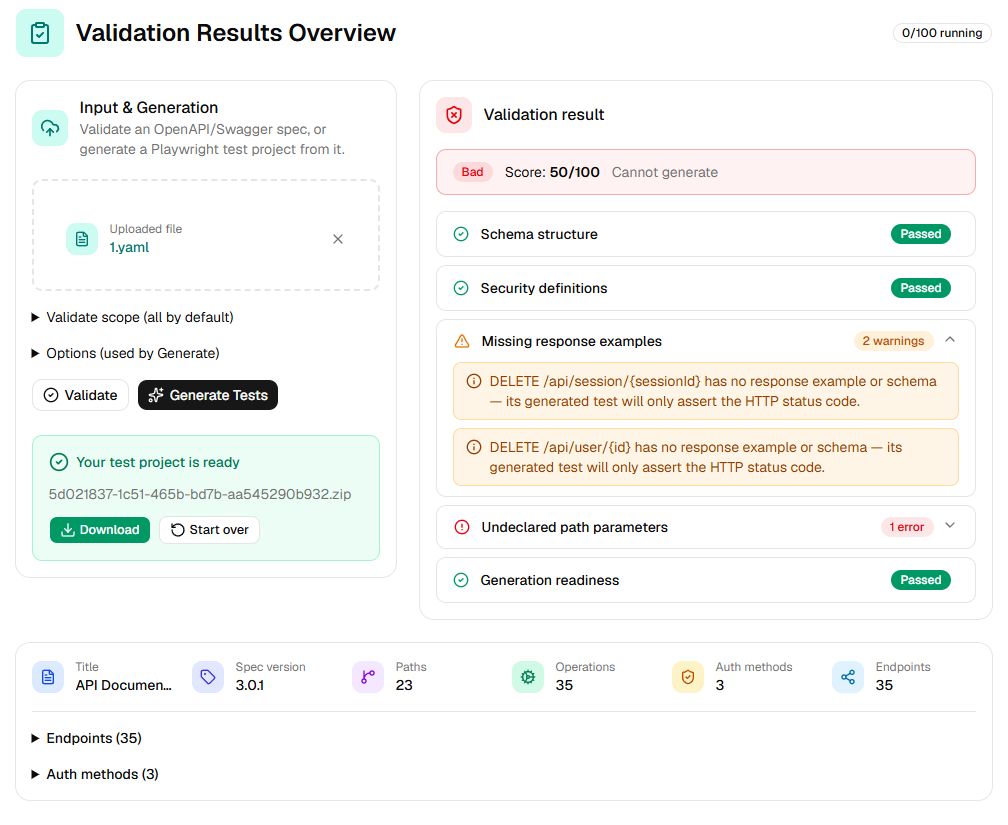
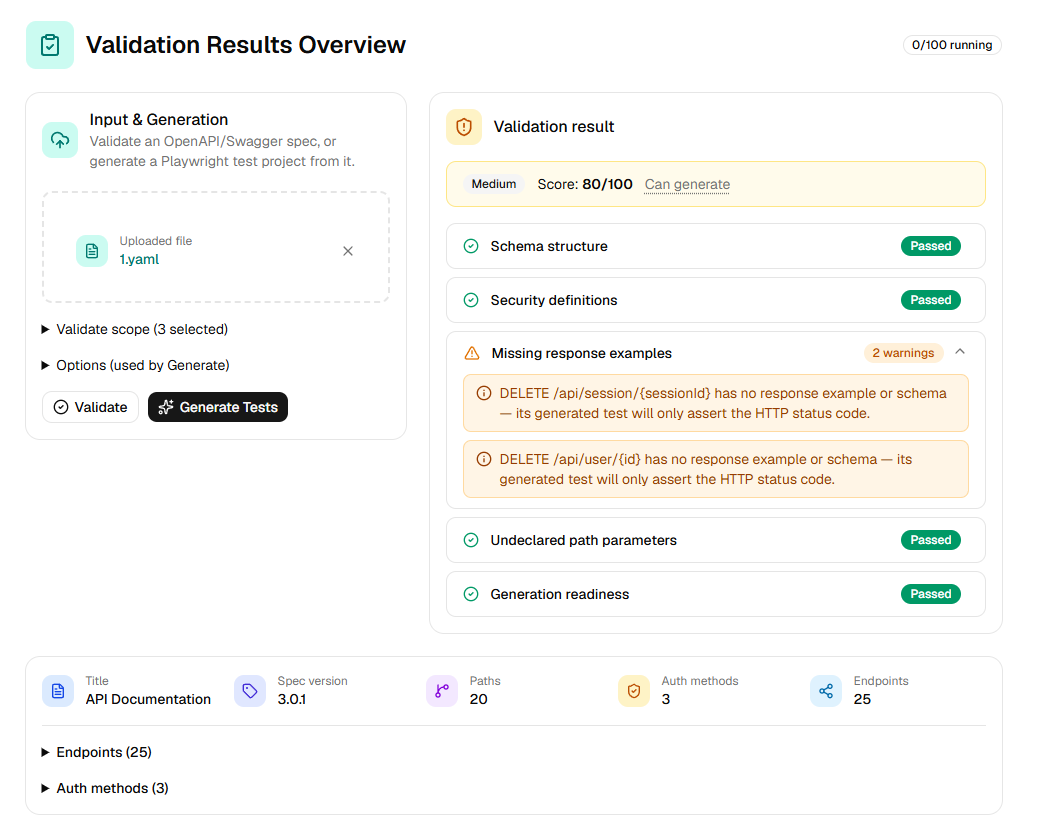
Replace long polling with SSE

diff --git a/src/hooks/useGenerateJob.ts b/src/hooks/useGenerateJob.ts
@@ -1,42 +1,96 @@
-import { useEffect } from 'react'
-import { useMutation, useQuery, useQueryClient } from '@tanstack/react-query'
-import { getGenerateJob, startGenerate, type GenerateOptions } from '@/lib/api'
+import { useEffect, useState } from 'react'
+import { useMutation } from '@tanstack/react-query'
+import { API_BASE_URL, getGenerateJob, startGenerate, type GenerateOptions } from '@/lib/api'
+import type { GenerateJobStatus } from '@/lib/types'
 import { useJobId } from './useJobId'
+import { useTitleAlert } from './useTitleAlert'
 
-const POLL_INTERVAL_MS = 1500
+// What the server actually pushes over SSE — no blob (see jobStore.js's
+// toPublicJob); once this reports "done" we make one normal GET to fetch
+// the file itself, same as the old polling path did on its last poll.
+type JobEvent = { status: 'pending' } | { status: 'done'; filename: string } | { status: 'failed'; error: string } | { status: 'not-found' }
 
 /**
  * Owns the full lifecycle of a generate job: kicking one off, persisting its
- * id (via useJobId) so a reload resumes polling it, and polling status while
- * pending. A stale/expired job (404 from the API) clears itself automatically.
+ * id (via useJobId) so a reload resumes watching it, and tracking status via
+ * Server-Sent Events (GET /generate/http/:jobId/events) rather than polling
+ * — the connection just sits open until the backend pushes a change. A
+ * stale/expired job (the server reports "not-found") clears itself
+ * automatically.
  */
 export function useGenerateJob() {
   const { jobId, setJobId } = useJobId()
-  const queryClient = useQueryClient()
+  const [status, setStatus] = useState<GenerateJobStatus | undefined>(undefined)
+  const [isLoadingStatus, setIsLoadingStatus] = useState(false)
 
-  const statusQuery = useQuery({
-    queryKey: ['generate-job', jobId],
-    queryFn: () => getGenerateJob(jobId as string),
-    enabled: jobId !== null,
-    refetchInterval: (query) => (query.state.data?.status === 'pending' ? POLL_INTERVAL_MS : false),
-  })
+  useEffect(() => {
+    setStatus(undefined)
+    if (jobId === null) return
+
+    setIsLoadingStatus(true)
+    let cancelled = false
+    const source = new EventSource(`${API_BASE_URL}/generate/http/${encodeURIComponent(jobId)}/events`)
+
+    source.onmessage = (event) => {
+      const payload = JSON.parse(event.data) as JobEvent
+      setIsLoadingStatus(false)
+
+      if (payload.status === 'pending') {
+        setStatus({ status: 'pending' })
+        return
+      }
+
+      // Terminal states: the server closes its end right after sending
+      // this, but close our side too so the browser never tries to
+      // auto-reconnect a stream that's intentionally finished.
+      source.close()
+
+      if (payload.status === 'done') {
+        // SSE only signalled completion — fetch the actual zip the normal way.
+        getGenerateJob(jobId)
+          .then((full) => {
+            if (!cancelled) setStatus(full)
+          })
+          .catch(() => {
+            if (!cancelled) setStatus({ status: 'failed', error: 'Generated, but the file could not be downloaded. Try again.' })
+          })
+      } else {
+        setStatus(payload)
+      }
+    }
+
+    return () => {
+      cancelled = true
+      source.close()
+    }
+  }, [jobId])
 
   // The job id is only ever a *hint* to reattach to — if the server no
   // longer knows about it (expired, or never existed), stop tracking it.
   useEffect(() => {
-    if (statusQuery.data?.status === 'not-found') setJobId(null)
-  }, [statusQuery.data, setJobId])
+    if (status?.status === 'not-found') setJobId(null)
+  }, [status, setJobId])
+
+  useTitleAlert(
+    status?.status === 'done'
+      ? '✅ Test project ready — PlaySpec'
+      : status?.status === 'failed'
+        ? '⚠ Generation failed — PlaySpec'
+        : null,
+  )
 
   const startMutation = useMutation({
     mutationFn: ({ file, options }: { file: File; options?: GenerateOptions }) =>
       startGenerate(file, options),
     onSuccess: (result) => {
       setJobId(result.jobId)
-      queryClient.invalidateQueries({ queryKey: ['generate-job', result.jobId] })
     },
   })
 
-  const reset = () => setJobId(null)
+  const reset = () => {
+    setJobId(null)
+    setStatus(undefined)
+  }
 
   // True only while a job is genuinely in flight server-side — the POST
   // itself, or a job whose status hasn't resolved yet or is still
@@ -44,12 +98,12 @@ export function useGenerateJob() {
   // done/failed/not-found, there's no reason to keep blocking a new
   // Generate click waiting on an explicit "Start over".
   const isPending =
-    startMutation.isPending || (jobId !== null && (statusQuery.isLoading || statusQuery.data?.status === 'pending'))
+    startMutation.isPending || (jobId !== null && (isLoadingStatus || status?.status === 'pending' || status === undefined))
 
   return {
     jobId,
-    status: statusQuery.data,
-    isLoadingStatus: statusQuery.isLoading,
+    status,
+    isLoadingStatus,
     isPending,
     start: startMutation.mutate,
     isStarting: startMutation.isPending,

diff --git a/src/components/ui/tooltip.tsx b/src/components/ui/tooltip.tsx
@@ -1,0 +1,55 @@
+import * as React from "react"
+import { Tooltip as TooltipPrimitive } from "radix-ui"
+
+import { cn } from "@/lib/utils"
+
+function TooltipProvider({
+  delayDuration = 0,
+  ...props
+}: React.ComponentProps<typeof TooltipPrimitive.Provider>) {
+  return (
+    <TooltipPrimitive.Provider
+      data-slot="tooltip-provider"
+      delayDuration={delayDuration}
+      {...props}
+    />
+  )
+}
+
+function Tooltip({
+  ...props
+}: React.ComponentProps<typeof TooltipPrimitive.Root>) {
+  return <TooltipPrimitive.Root data-slot="tooltip" {...props} />
+}
+
+function TooltipTrigger({
+  ...props
+}: React.ComponentProps<typeof TooltipPrimitive.Trigger>) {
+  return <TooltipPrimitive.Trigger data-slot="tooltip-trigger" {...props} />
+}
+
+function TooltipContent({
+  className,
+  sideOffset = 0,
+  children,
+  ...props
+}: React.ComponentProps<typeof TooltipPrimitive.Content>) {
+  return (
+    <TooltipPrimitive.Portal>
+      <TooltipPrimitive.Content
+        data-slot="tooltip-content"
+        sideOffset={sideOffset}
+        className={cn(
+          "z-50 inline-flex w-fit max-w-xs origin-(--radix-tooltip-content-transform-origin) items-center gap-1.5 rounded-md bg-foreground px-3 py-1.5 text-xs text-background has-data-[slot=kbd]:pr-1.5 data-[side=bottom]:slide-in-from-top-2 data-[side=left]:slide-in-from-right-2 data-[side=right]:slide-in-from-left-2 data-[side=top]:slide-in-from-bottom-2 **:data-[slot=kbd]:relative **:data-[slot=kbd]:isolate **:data-[slot=kbd]:z-50 **:data-[slot=kbd]:rounded-sm data-[state=delayed-open]:animate-in data-[state=delayed-open]:fade-in-0 data-[state=delayed-open]:zoom-in-95 data-open:animate-in data-open:fade-in-0 data-open:zoom-in-95 data-closed:animate-out data-closed:fade-out-0 data-closed:zoom-out-95",
+          className
+        )}
+        {...props}
+      >
+        {children}
+        <TooltipPrimitive.Arrow className="z-50 size-2.5 translate-y-[calc(-50%_-_2px)] rotate-45 rounded-[2px] bg-foreground fill-foreground" />
+      </TooltipPrimitive.Content>
+    </TooltipPrimitive.Portal>
+  )
+}
+
+export { Tooltip, TooltipContent, TooltipProvider, TooltipTrigger }

diff --git a/src/components/ValidationReport.tsx b/src/components/ValidationReport.tsx
@@ -4,6 +4,7 @@ import { Alert, AlertDescription, AlertTitle } from '@/components/ui/alert'
 import { Accordion, AccordionContent, AccordionItem, AccordionTrigger } from '@/components/ui/accordion'
 import { AlertCircle, CheckCircle2, Info, TriangleAlert } from 'lucide-react'
 import { cn } from '@/lib/utils'
+import { Tooltip, TooltipContent, TooltipTrigger } from '@/components/ui/tooltip'
 
 const SEVERITY_BADGE: Record<Severity, { variant: 'default' | 'secondary' | 'destructive'; label: string }> = {
   good: { variant: 'default', label: 'Good' },
@@ -95,9 +96,18 @@ export function ValidationReport({ result }: { result: ValidateResult }) {
         <span className="text-sm">
           Score: <span className="font-semibold">{result.score}/100</span>
         </span>
-        <span className="text-muted-foreground text-sm">
-          {result.canGenerate ? 'Can generate' : 'Cannot generate'}
-        </span>
+        <Tooltip>
+          <TooltipTrigger asChild>
+            <span className="text-muted-foreground cursor-default text-sm underline decoration-dotted underline-offset-4">
+              {result.canGenerate ? 'Can generate' : 'Not recommended to generate'}
+            </span>
+          </TooltipTrigger>
+          <TooltipContent>
+            {result.canGenerate
+              ? 'No blocking errors were found — generated tests should run without structural issues.'
+              : 'Blocking errors were found in this spec. You can still generate a test project, but expect broken or incomplete tests until the errors above are fixed.'}
+          </TooltipContent>
+        </Tooltip>
       </div>
 
       {result.categories ? (

diff --git a/src/components/SpecSummaryBar.tsx b/src/components/SpecSummaryBar.tsx
@@ -5,7 +5,7 @@ import { Separator } from '@/components/ui/separator'
 import { Badge } from '@/components/ui/badge'
 import { EndpointsByMethod } from '@/components/EndpointsByMethod'
 import { IconChip } from '@/components/IconChip'
-import { Cog, FileText, GitBranch, Share2, ShieldCheck, Tag } from 'lucide-react'
+import { FileText, GitBranch, Share2, ShieldCheck, Tag } from 'lucide-react'
 
 function StatItem({ icon, iconClassName, label, value }: { icon: ReactNode; iconClassName: string; label: string; value: ReactNode }) {
   return (
@@ -54,7 +54,7 @@ export function SpecSummaryBar({ summary }: { summary: ValidationSummary }) {
   return (
     <Card>
       <CardContent className="flex flex-col gap-4">
-        <div className="grid grid-cols-2 gap-4 sm:grid-cols-3 lg:grid-cols-6">
+        <div className="grid grid-cols-2 gap-4 sm:grid-cols-3 lg:grid-cols-5">
           <StatItem
             icon={<FileText />}
             iconClassName="bg-blue-100 text-blue-700 dark:bg-blue-900/40 dark:text-blue-400"
@@ -72,12 +72,6 @@ export function SpecSummaryBar({ summary }: { summary: ValidationSummary }) {
             iconClassName="bg-purple-100 text-purple-700 dark:bg-purple-900/40 dark:text-purple-400"
             label="Paths"
             value={summary.pathCount}
-          />
-          <StatItem
-            icon={<Cog />}
-            iconClassName="bg-emerald-100 text-emerald-700 dark:bg-emerald-900/40 dark:text-emerald-400"
-            label="Operations"
-            value={summary.operationCount}
           />
           <StatItem
             icon={<ShieldCheck />}

diff --git a/src/hooks/useTitleAlert.ts b/src/hooks/useTitleAlert.ts
@@ -1,0 +1,37 @@
+import { useEffect } from 'react'
+
+const ORIGINAL_TITLE = document.title
+const FLASH_INTERVAL_MS = 1500
+
+/**
+ * Flashes the document title between `message` and the page's normal title
+ * while the tab is hidden — e.g. "a generate job you started finished while
+ * you were on another tab". SSE keeps updating state in the background
+ * regardless, but nothing draws the user's eye back without this. Only
+ * starts if the tab is already hidden when `message` is set (no point
+ * flashing at someone already looking at the page), and stops the moment
+ * they switch back.
+ */
+export function useTitleAlert(message: string | null) {
+  useEffect(() => {
+    if (!message || !document.hidden) return
+
+    let showingAlert = false
+    const interval = setInterval(() => {
+      showingAlert = !showingAlert
+      document.title = showingAlert ? message : ORIGINAL_TITLE
+    }, FLASH_INTERVAL_MS)
+
+    const stop = () => {
+      clearInterval(interval)
+      document.title = ORIGINAL_TITLE
+    }
+    document.addEventListener('visibilitychange', stop, { once: true })
+
+    return () => {
+      clearInterval(interval)
+      document.removeEventListener('visibilitychange', stop)
+      document.title = ORIGINAL_TITLE
+    }
+  }, [message])
+}

diff --git a/src/components/QueueStatusBadge.tsx b/src/components/QueueStatusBadge.tsx
@@ -1,14 +1,28 @@
-import { useQueueStats } from '@/hooks/useQueueStats'
-import { Badge } from '@/components/ui/badge'
+import { useQueueStats } from "@/hooks/useQueueStats";
+import { Badge } from "@/components/ui/badge";
+import {
+  Tooltip,
+  TooltipContent,
+  TooltipTrigger,
+} from "@/components/ui/tooltip";
 
 export function QueueStatusBadge() {
-  const { data } = useQueueStats()
-  if (!data) return null
+  const { data } = useQueueStats();
+  if (!data) return null;
 
   return (
-    <Badge variant="outline" title={`${data.activeUsers} user(s) currently generating`}>
-      {data.running}/{data.limits.concurrency} running
-      {data.waiting > 0 ? ` · ${data.waiting} waiting` : ''}
-    </Badge>
-  )
+    <Tooltip>
+      <TooltipTrigger asChild>
+        <Badge variant="outline" className="cursor-default">
+          {data.running}/{data.limits.concurrency} running
+          {data.waiting > 0 ? ` · ${data.waiting} waiting` : ""}
+        </Badge>
+      </TooltipTrigger>
+      <TooltipContent>
+        PlaySpec limits how many test-generation jobs can run at once so the
+        service stays fair for everyone. {data.activeUsers} user(s) currently
+        generating
+      </TooltipContent>
+    </Tooltip>
+  );
 }

diff --git a/src/hooks/useQueueStats.ts b/src/hooks/useQueueStats.ts
@@ -1,12 +1,23 @@
-import { useQuery } from '@tanstack/react-query'
-import { getQueueStats } from '@/lib/api'
+import { useEffect, useState } from 'react'
+import { API_BASE_URL } from '@/lib/api'
+import type { QueueStats } from '@/lib/types'
 
-const REFRESH_MS = 5000
-
+/**
+ * Live queue stats pushed over Server-Sent Events (GET /queue/events) rather
+ * than polled — the backend already knows the exact moment the numbers
+ * change (see generateQueue.js), so there's no reason to keep asking on a
+ * timer. EventSource reconnects on its own if the connection drops.
+ */
 export function useQueueStats() {
-  return useQuery({
-    queryKey: ['queue-stats'],
-    queryFn: getQueueStats,
-    refetchInterval: REFRESH_MS,
-  })
+  const [data, setData] = useState<QueueStats | undefined>(undefined)
+
+  useEffect(() => {
+    const source = new EventSource(`${API_BASE_URL}/queue/events`)
+    source.onmessage = (event) => {
+      setData(JSON.parse(event.data))
+    }
+    return () => source.close()
+  }, [])
+
+  return { data }
 }

diff --git a/src/components/Layout.tsx b/src/components/Layout.tsx
@@ -1,13 +1,16 @@
 import { Outlet } from 'react-router-dom'
 import { NavBar } from '@/components/NavBar'
 import { PrivacyNotice } from '@/components/PrivacyNotice'
+import { TooltipProvider } from '@/components/ui/tooltip'
 
 export function Layout() {
   return (
-    <div className="min-h-svh">
-      <NavBar />
-      <Outlet />
-      <PrivacyNotice />
-    </div>
+    <TooltipProvider>
+      <div className="min-h-svh">
+        <NavBar />
+        <Outlet />
+        <PrivacyNotice />
+      </div>
+    </TooltipProvider>
   )
 }
